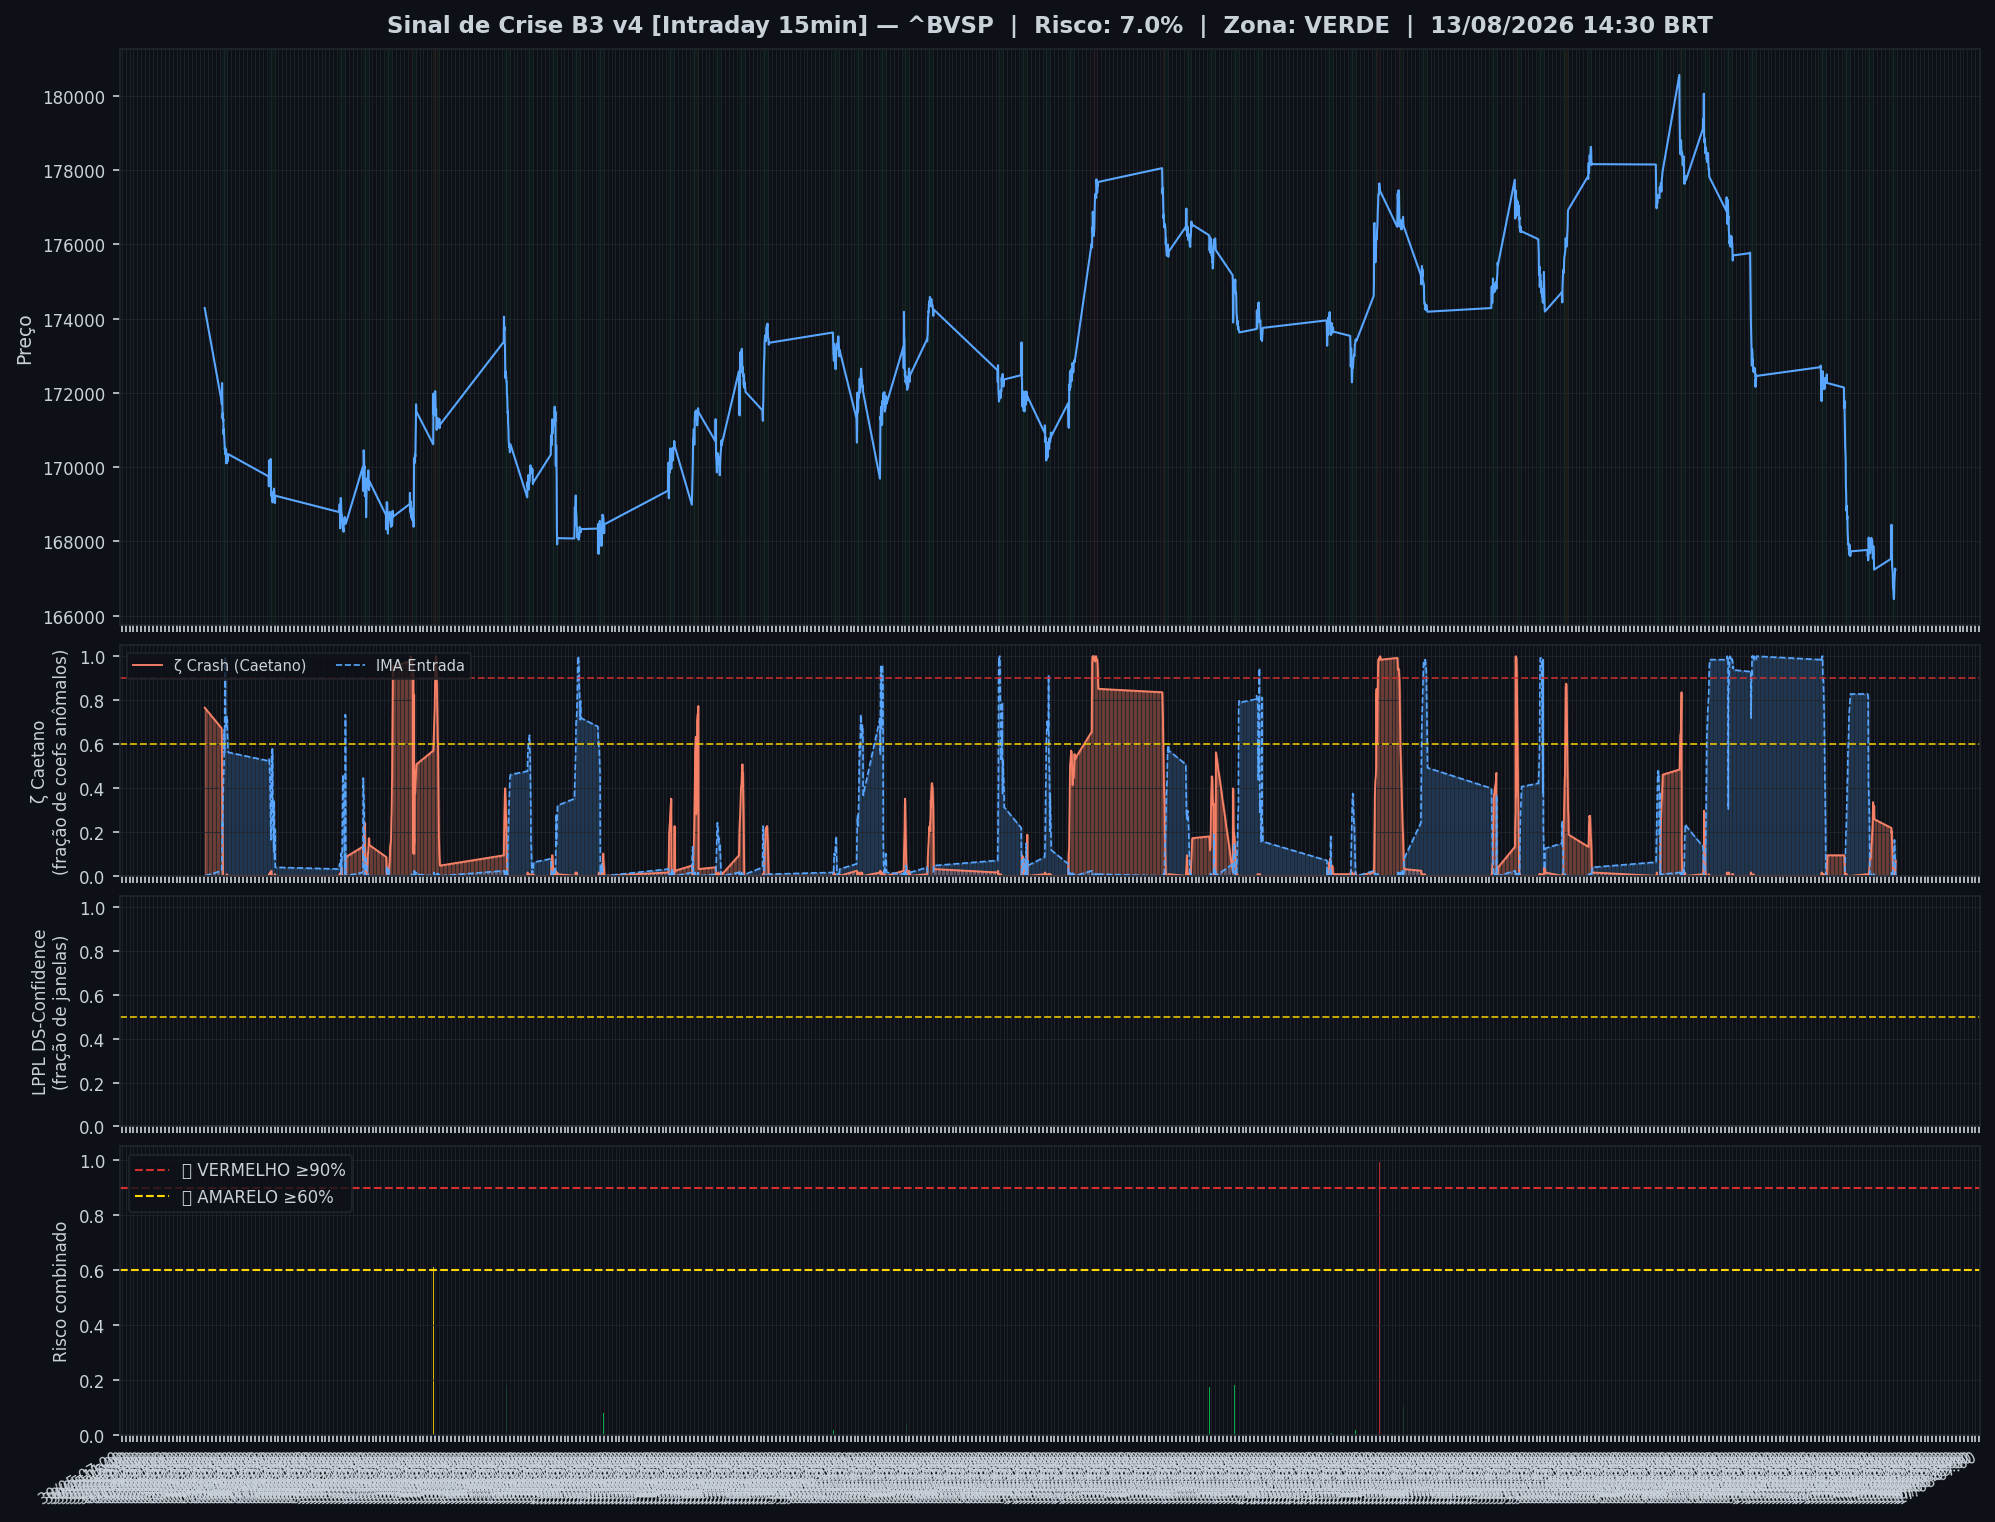
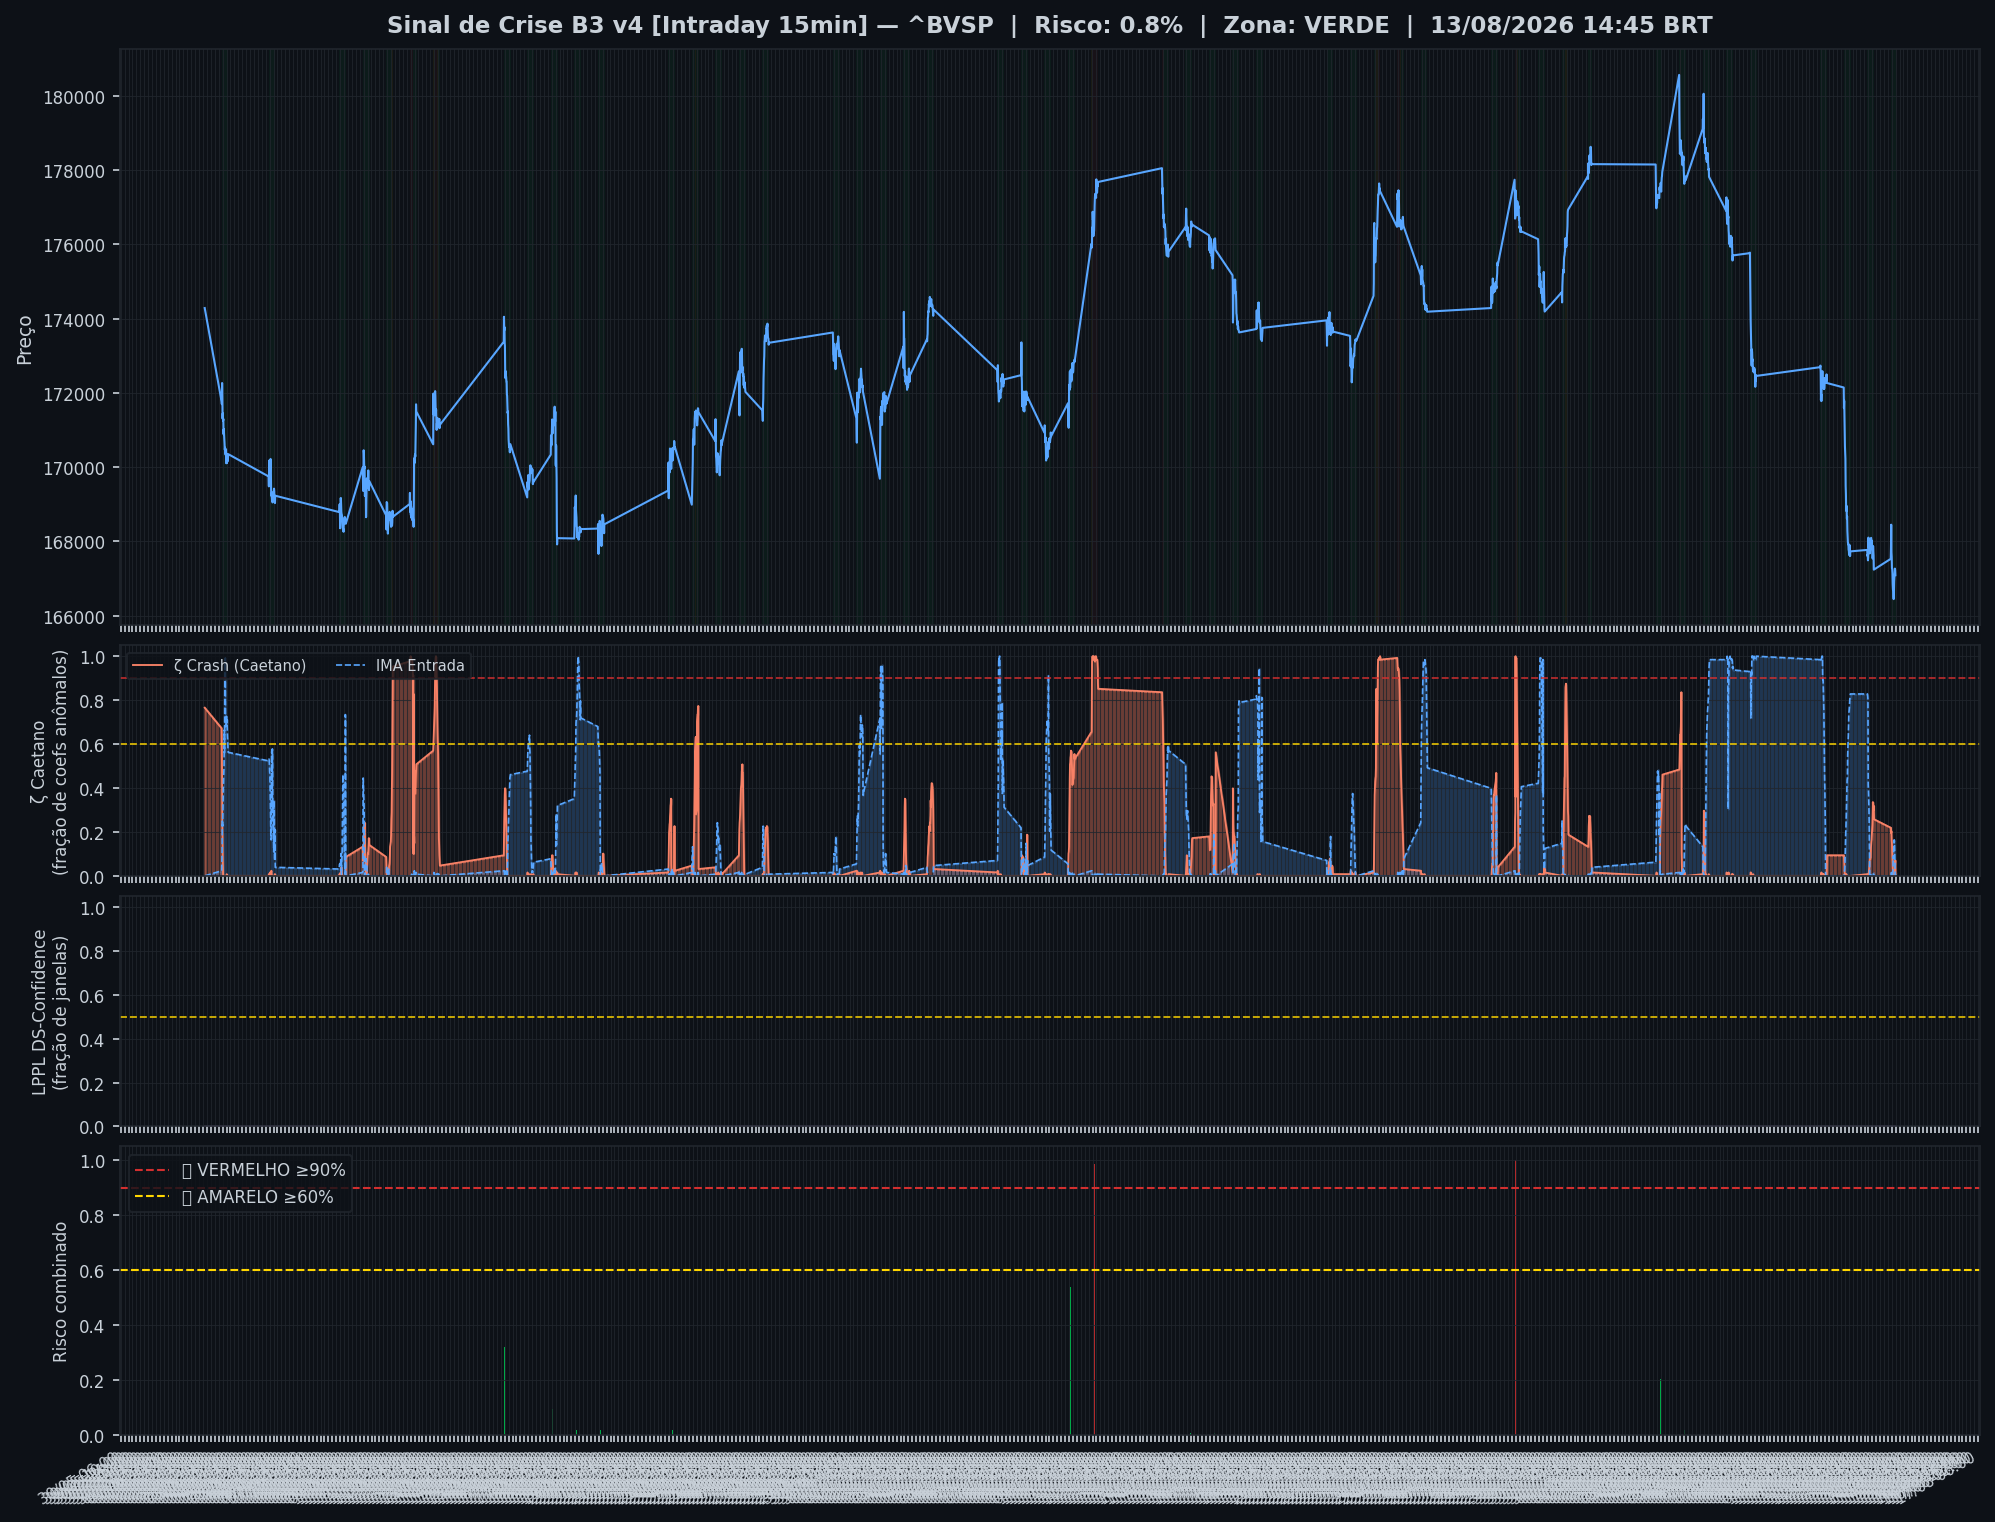
🤖 Auto: Sinal 13/08/2026 15:30

Changed region(s): [[0.0311, 0.9264, 0.9945, 0.9882], [0.404, 0.4323, 0.9634, 0.5867], [0.0932, 0.4632, 0.3729, 0.5867]]

diff --git a/content/intraday/2026-08-13.md b/content/intraday/2026-08-13.md
@@ -1,20 +1,20 @@
 ---
-title: "🟢 Intraday 13/08/2026 14:30 BRT — VERDE"
+title: "🟢 Intraday 13/08/2026 14:45 BRT — VERDE"
 date: 2026-08-13
 tags: [intraday]
 ---
 
-> [!success] 🟢 **VERDE** — Risco 7% · ▲ +2 p.p. vs leitura anterior
-> `█░░░░░░░░░░░░░░░░░░░`
+> [!success] 🟢 **VERDE** — Risco 1% · ▼ -6 p.p. vs leitura anterior
+> `░░░░░░░░░░░░░░░░░░░░`
 > Mercado sem sinais relevantes de estresse.
 
 
 | Indicador | Valor |
 |---|---|
-| 🔴 ζ Crash — severidade da queda em curso | **7%** |
-| 🔵 ζ Entrada — estrutura de fundo | 0% |
+| 🔴 ζ Crash — severidade da queda em curso | **1%** |
+| 🔵 ζ Entrada — estrutura de fundo | 2% |
 | 🫧 LPPL DS-Confidence | 0% |
-| 📊 Ibovespa | 167.230 pts |
+| 📊 Ibovespa | 167.087 pts |
 
 ![Gráfico do sinal](../graficos/sinal_intraday.png)
 
@@ -22,6 +22,7 @@ tags: [intraday]
 
 | Data | Zona | Risco | IMA Crash | Entrada | LPPL |
 |---|---|---|---|---|---|
+| 2026-08-13 14:45 | 🟢 VERDE | **1%** | 1% | 2% | 0% |
 | 2026-08-13 14:30 | 🟢 VERDE | **7%** | 7% | 0% | 0% |
 | 2026-08-13 14:15 | 🟢 VERDE | **5%** | 5% | 2% | 0% |
 | 2026-08-13 14:00 | 🟢 VERDE | **3%** | 3% | 5% | 0% |
@@ -51,7 +52,6 @@ tags: [intraday]
 | 2026-08-12 15:00 | 🟢 VERDE | **23%** | 23% | 0% | 0% |
 | 2026-08-12 14:45 | 🟢 VERDE | **21%** | 21% | 0% | 0% |
 | 2026-08-12 14:30 | 🟢 VERDE | **19%** | 19% | 0% | 0% |
-| 2026-08-12 14:15 | 🟢 VERDE | **16%** | 16% | 0% | 0% |
 
 ## Monitor Multi-Ativo
 
@@ -59,36 +59,36 @@ tags: [intraday]
 
 | Zona | Ativo | Setor | IMA Crash | IMA Entrada |
 |---|---|---|---|---|
+| 🟢 | **USD/BRL** | Câmbio | 0.8% | 23.4% |
 | 🟢 | **VALE** | Mineração | 0.0% | 60.2% |
-| 🟢 | **ITAUUNIBANCO** | Financeiro | 0.0% | 62.5% |
+| 🟢 | **ITAUUNIBANCO** | Financeiro | 0.0% | 60.2% |
+| 🟢 | **PETROBRAS** | Petróleo | 0.0% | 53.1% |
+| 🟢 | **AXIA ENERGIA** | Energia | 0.0% | 53.1% |
 | 🟢 | **PETROBRAS** | Petróleo | 0.0% | 60.2% |
-| 🟢 | **AXIA ENERGIA** | Energia | 0.0% | 60.2% |
-| 🟢 | **PETROBRAS** | Petróleo | 0.0% | 60.2% |
-| 🟢 | **BRADESCO** | Financeiro | 0.0% | 60.2% |
-| 🟢 | **SABESP** | Saneamento | 0.0% | 60.2% |
-| 🟢 | **ITAUSA** | Financeiro | 0.0% | 60.2% |
-| 🟢 | **B3** | Financeiro | 0.0% | 60.2% |
-| 🟢 | **WEG** | Industrial | 0.0% | 60.2% |
-| 🟢 | **EMBRAER** | Outros | 0.0% | 62.5% |
-| 🟢 | **AMBEV S/A** | Consumo | 0.0% | 62.5% |
-| 🟢 | **BTGP BANCO** | Financeiro | 0.0% | 60.2% |
-| 🟢 | **BRASIL** | Financeiro | 0.0% | 60.2% |
-| 🟢 | **ENEVA** | Energia | 0.0% | 60.2% |
-| 🟢 | **PRIO** | Petróleo | 0.0% | 62.5% |
-| 🟢 | **EQUATORIAL** | Energia | 0.0% | 60.2% |
-| 🟢 | **COPEL** | Energia | 0.0% | 60.2% |
-| 🟢 | **VIBRA** | Energia | 0.0% | 60.2% |
-| 🟢 | **REDE D OR** | Saúde | 0.0% | 60.2% |
-| 🟢 | **LOCALIZA** | Aluguel | 0.0% | 60.2% |
-| 🟢 | **ULTRAPAR** | Outros | 0.0% | 60.2% |
-| 🟢 | **GERDAU** | Siderurgia | 0.0% | 60.2% |
-| 🟢 | **SUZANO S.A.** | Papel/Celulose | 0.0% | 60.2% |
-| 🟢 | **RAIADROGASIL** | Outros | 0.0% | 60.2% |
-| 🟢 | **USD/BRL** | Câmbio | 0.0% | 53.1% |
+| 🟢 | **BRADESCO** | Financeiro | 0.0% | 53.1% |
+| 🟢 | **SABESP** | Saneamento | 0.0% | 53.1% |
+| 🟢 | **ITAUSA** | Financeiro | 0.0% | 53.1% |
+| 🟢 | **B3** | Financeiro | 0.0% | 53.1% |
+| 🟢 | **WEG** | Industrial | 0.0% | 53.1% |
+| 🟢 | **EMBRAER** | Outros | 0.0% | 53.1% |
+| 🟢 | **AMBEV S/A** | Consumo | 0.0% | 53.1% |
+| 🟢 | **BTGP BANCO** | Financeiro | 0.0% | 53.1% |
+| 🟢 | **BRASIL** | Financeiro | 0.0% | 53.1% |
+| 🟢 | **ENEVA** | Energia | 0.0% | 53.1% |
+| 🟢 | **PRIO** | Petróleo | 0.0% | 53.1% |
+| 🟢 | **EQUATORIAL** | Energia | 0.0% | 53.1% |
+| 🟢 | **COPEL** | Energia | 0.0% | 53.1% |
+| 🟢 | **VIBRA** | Energia | 0.0% | 53.1% |
+| 🟢 | **REDE D OR** | Saúde | 0.0% | 53.1% |
+| 🟢 | **LOCALIZA** | Aluguel | 0.0% | 53.1% |
+| 🟢 | **ULTRAPAR** | Outros | 0.0% | 53.1% |
+| 🟢 | **GERDAU** | Siderurgia | 0.0% | 53.1% |
+| 🟢 | **SUZANO S.A.** | Papel/Celulose | 0.0% | 53.1% |
+| 🟢 | **RAIADROGASIL** | Outros | 0.0% | 53.1% |
 
 ![Monitor multi-ativo](../graficos/multi_intraday.png)
 
-*Página atualizada em 13/08/2026 15:15 BRT (leitura da barra de 2026-08-13 14:30 BRT).*
+*Página atualizada em 13/08/2026 15:30 BRT (leitura da barra de 2026-08-13 14:45 BRT).*
 
 > [!info]- Como interpretar (clique para expandir)
 > - **ζ Crash**: fração dos coeficientes wavelet acima do corte (Caetano & Yoneyama 2009). Escala absoluta: ζ=0,90 = 90% dos coeficientes anômalos — historicamente, quedas com ζ≥0,90 foram mais fundas e mais longas. **Mede a severidade do movimento em curso, não prevê o início da queda.**

diff --git a/content/index.md b/content/index.md
@@ -8,19 +8,19 @@ tags: [home]
 
 Monitoramento diário e intraday do Ibovespa — **IMA Wavelet** (Prof. Marco Antonio Leonel Caetano, ITA/INSPER) + **LPPL DS-Confidence** (Prof. Didier Sornette, ETH-Zurich).
 
-*Última atualização: 13/08/2026 15:15 BRT · ^BVSP · Intraday 15min · v4*
+*Última atualização: 13/08/2026 15:30 BRT · ^BVSP · Intraday 15min · v4*
 
-> [!success] 🟢 **VERDE** — Risco 7% · ▲ +2 p.p. vs leitura anterior
-> `█░░░░░░░░░░░░░░░░░░░`
+> [!success] 🟢 **VERDE** — Risco 1% · ▼ -6 p.p. vs leitura anterior
+> `░░░░░░░░░░░░░░░░░░░░`
 > Mercado sem sinais relevantes de estresse.
 
 
 | Indicador | Valor |
 |---|---|
-| 🔴 ζ Crash — severidade da queda em curso | **7%** |
-| 🔵 ζ Entrada — estrutura de fundo | 0% |
+| 🔴 ζ Crash — severidade da queda em curso | **1%** |
+| 🔵 ζ Entrada — estrutura de fundo | 2% |
 | 🫧 LPPL DS-Confidence | 0% |
-| 📊 Ibovespa | 167.230 pts |
+| 📊 Ibovespa | 167.087 pts |
 
 **Multi-ativo:** 0% em tensão (0🔴 0🟡 de 26 ativos)
 
@@ -32,7 +32,7 @@ Monitoramento diário e intraday do Ibovespa — **IMA Wavelet** (Prof. Marco An
 
 | Data | Zona | Risco | IMA | LPPL |
 |---|---|---|---|---|
-| [13 Aug 2026](diario/2026-08-13) | 🟢 VERDE | **7%** | 7% | 0% |
+| [13 Aug 2026](diario/2026-08-13) | 🟢 VERDE | **1%** | 1% | 0% |
 | [12 Aug 2026](diario/2026-08-12) | 🟢 VERDE | **26%** | 26% | 0% |
 
 ## Navegação

diff --git a/content/historico.md b/content/historico.md
@@ -7,6 +7,7 @@ tags: [historico]
 
 | Data | Modo | Zona | Risco | IMA | LPPL |
 |---|---|---|---|---|---|
+| 2026-08-13 14:45 | intraday | 🟢 VERDE | 1% | 1% | 0% |
 | 2026-08-13 14:30 | intraday | 🟢 VERDE | 7% | 7% | 0% |
 | 2026-08-13 14:15 | intraday | 🟢 VERDE | 5% | 5% | 0% |
 | 2026-08-13 14:00 | intraday | 🟢 VERDE | 3% | 3% | 0% |
